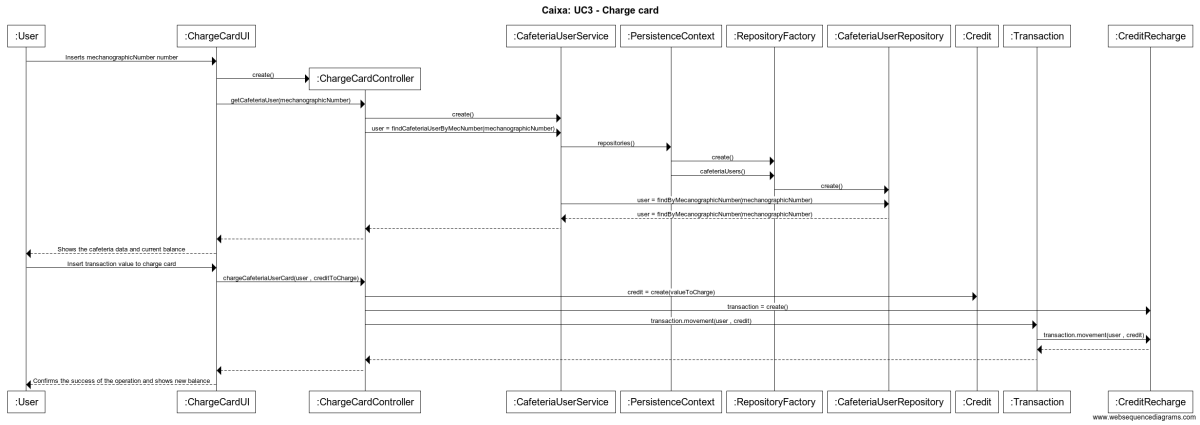
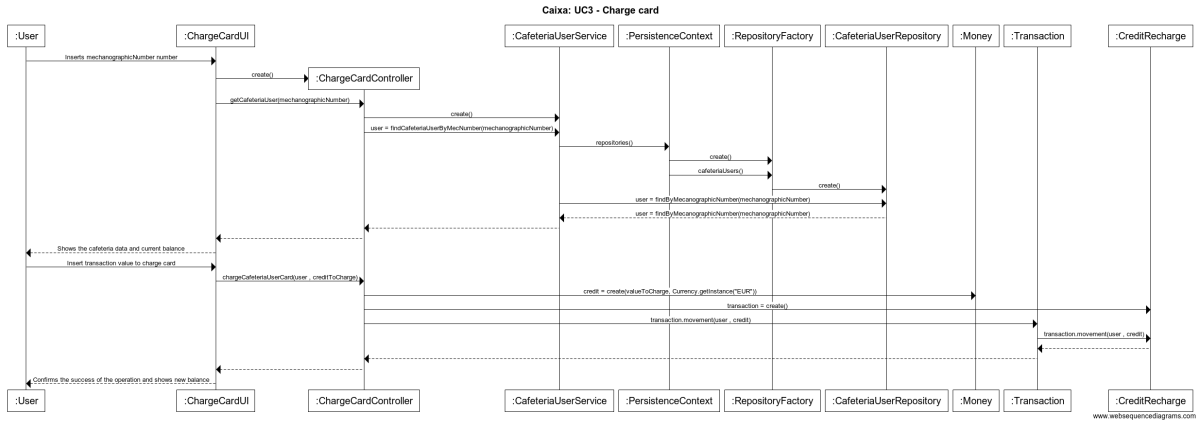
[InProgress #42] Implementation of UC3 - Charge Card. Creation of controller and UI for said UC.

diff --git a/ecafeteria.core/src/main/java/eapli/ecafetaria/application/pos/ChargeCardController.java b/ecafeteria.core/src/main/java/eapli/ecafetaria/application/pos/ChargeCardController.java
@@ -1,0 +1,35 @@
+/*
+ * To change this license header, choose License Headers in Project Properties.
+ * To change this template file, choose Tools | Templates
+ * and open the template in the editor.
+ */
+package eapli.ecafetaria.application.pos;
+
+import eapli.ecafeteria.application.cafeteriauser.CafeteriaUserService;
+import eapli.ecafeteria.domain.cafeteriauser.CafeteriaUser;
+import eapli.framework.application.Controller;
+import eapli.framework.domain.money.Money;
+import java.util.Optional;
+
+/**
+ *
+ * @author MarioDias
+ */
+public class ChargeCardController implements Controller {
+
+    private final CafeteriaUserService service = new CafeteriaUserService();
+
+    public CafeteriaUser findCafeteriaUserByMecanographicNumber(String mecanographicNumber) {
+        Optional<CafeteriaUser> user = service.findCafeteriaUserByMecNumber(mecanographicNumber);
+        if (user.isPresent()) {
+            return user.get();
+        }
+        return null;
+    }
+
+    public boolean chargeCafeteriaUserCard(CafeteriaUser user, Money creditToCharge) {
+        return user.addCredits(creditToCharge);
+    }
+    
+    
+}

diff --git a/ecafeteria.app.pos.console/src/main/java/eapli/ecafeteria/app/pos/console/presentation/ChargeCardUI.java b/ecafeteria.app.pos.console/src/main/java/eapli/ecafeteria/app/pos/console/presentation/ChargeCardUI.java
@@ -1,0 +1,35 @@
+/*
+ * To change this license header, choose License Headers in Project Properties.
+ * To change this template file, choose Tools | Templates
+ * and open the template in the editor.
+ */
+package eapli.ecafeteria.app.pos.console.presentation;
+
+import eapli.ecafetaria.application.pos.ChargeCardController;
+import eapli.ecafeteria.application.authz.AuthorizationService;
+import eapli.framework.application.Controller;
+import eapli.framework.presentation.console.AbstractUI;
+
+/**
+ *
+ * @author MarioDias
+ */
+public class ChargeCardUI extends AbstractUI {
+
+    private final ChargeCardController theController = new ChargeCardController();
+
+    protected Controller controller() {
+        return this.theController;
+    }
+
+    @Override
+    protected boolean doShow() {
+        System.out.println(String.format("Starting the charging transaction, please insert the Cafeteria User Mecanographic Number\n", null));
+        return true;
+    }
+
+    @Override
+    public String headline() {
+        return "eCAFETERIA [@" + AuthorizationService.session().authenticatedUser().id() + "]   ";
+    }
+}

diff --git a/ecafeteria.core/src/main/java/eapli/ecafeteria/domain/cafeteriauser/CafeteriaUser.java b/ecafeteria.core/src/main/java/eapli/ecafeteria/domain/cafeteriauser/CafeteriaUser.java
@@ -2,8 +2,8 @@ package eapli.ecafeteria.domain.cafeteriauser;
 
 import eapli.ecafeteria.domain.authz.SystemUser;
 import eapli.framework.domain.ddd.AggregateRoot;
+import eapli.framework.domain.money.Money;
 import java.io.Serializable;
-import javax.persistence.Column;
 import javax.persistence.EmbeddedId;
 import javax.persistence.Entity;
 import javax.persistence.OneToOne;
@@ -39,10 +39,9 @@ public class CafeteriaUser implements AggregateRoot<MecanographicNumber>, Serial
      */
     @OneToOne()
     private SystemUser systemUser;
-    
-    
+
     private Balance currentBalance;
-    
+
     public CafeteriaUser(SystemUser user, MecanographicNumber mecanographicNumber) {
         if (mecanographicNumber == null || user == null) {
             throw new IllegalArgumentException();
@@ -58,6 +57,10 @@ public class CafeteriaUser implements AggregateRoot<MecanographicNumber>, Serial
 
     public SystemUser user() {
         return this.systemUser;
+    }
+
+    public boolean addCredits(Money credits) {
+        return currentBalance.addCredits(credits);
     }
 
     @Override

diff --git a/ecafeteria.core/src/main/java/eapli/ecafeteria/domain/cafeteriauser/Balance.java b/ecafeteria.core/src/main/java/eapli/ecafeteria/domain/cafeteriauser/Balance.java
@@ -21,14 +21,18 @@ public class Balance {
     protected Balance() {
         this.currentBalance = new Money(0, Currency.getInstance("EUR"));
     }
-    
+
     /**
      *
      * @param credits is the new value to add to the currentBalance
      * @author Mario Dias
      */
-    public void addCredits(Money credits) {
-        this.currentBalance.add(credits);
+    public boolean addCredits(Money credits) {
+        Money moneyAfterTransaction = this.currentBalance.add(credits);
+        if (moneyAfterTransaction.equals(currentBalance)) {
+            return true;
+        }
+        return false;
     }
 
     @Override
